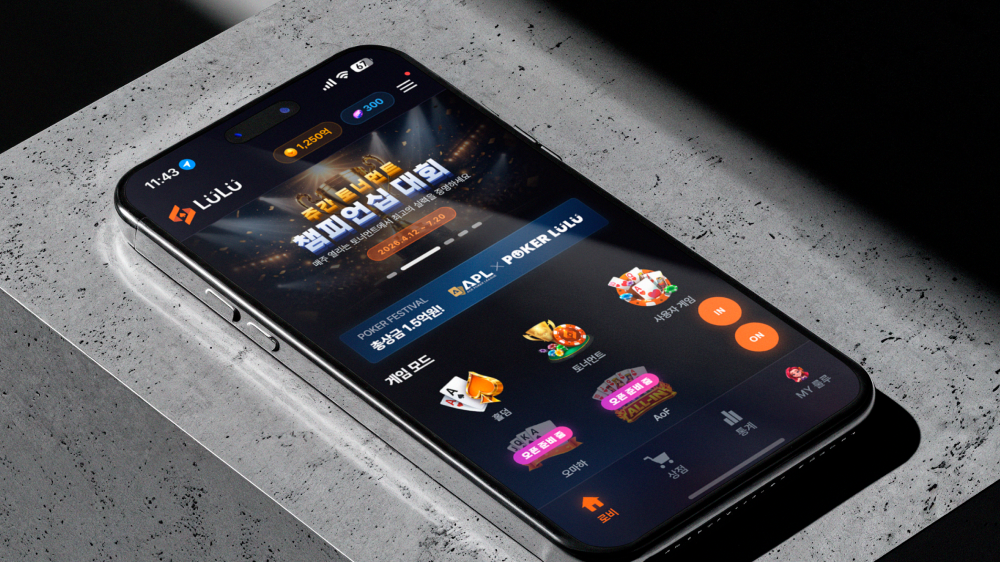
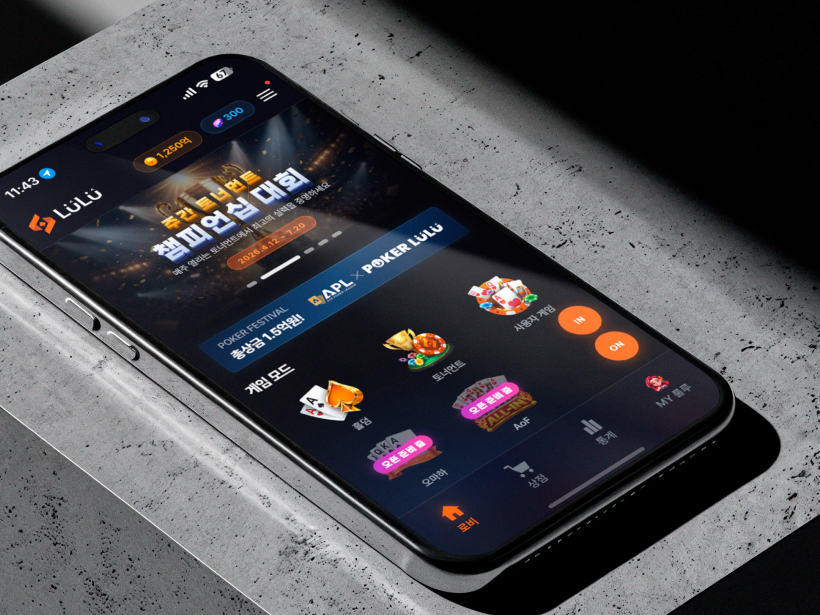
fix: pokerlulu 메인 히어로 — 폰 목업 전체 보이도록 타이트 크롭(4:3)으로 재조정

diff --git a/components/ServiceDetail.tsx b/components/ServiceDetail.tsx
@@ -578,7 +578,7 @@ export default function ServiceDetail({ item }: { item: ServiceItem }) {
 function KeyVisual({ id, color }: { id: string; color: string }) {
   if (id === "pokerlulu") {
     return (
-      <div className="relative w-full aspect-[16/9] max-w-[560px] mx-auto">
+      <div className="relative w-full aspect-[4/3] max-w-[560px] mx-auto">
         <div
           className="relative w-full h-full rounded-[24px] overflow-hidden"
           style={{
